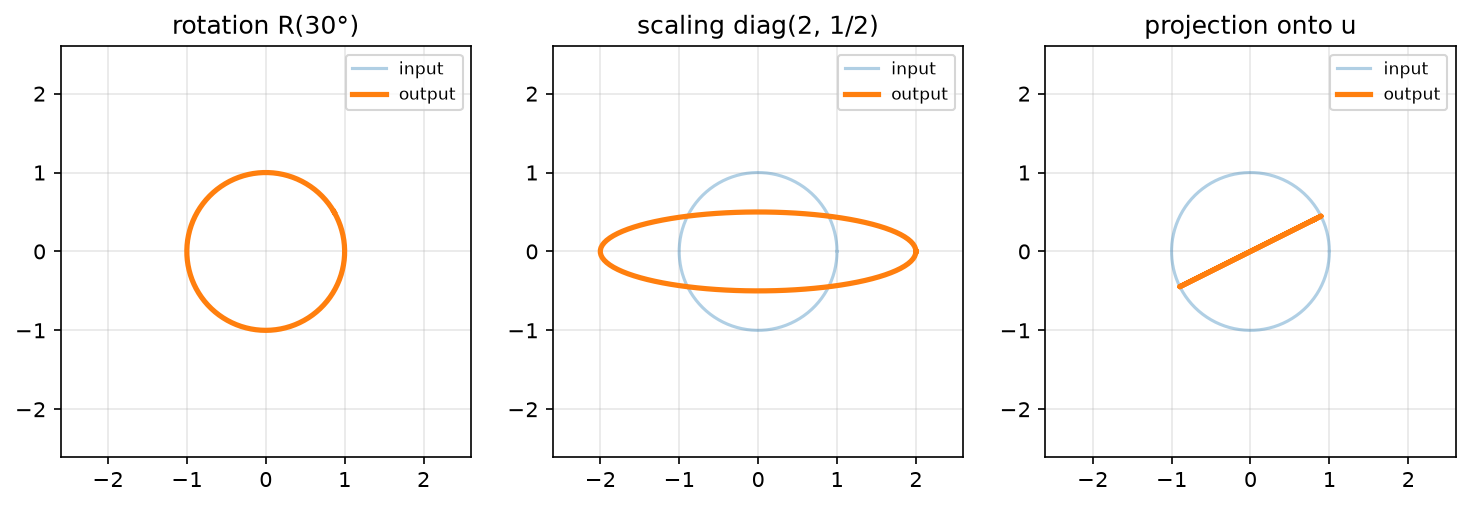
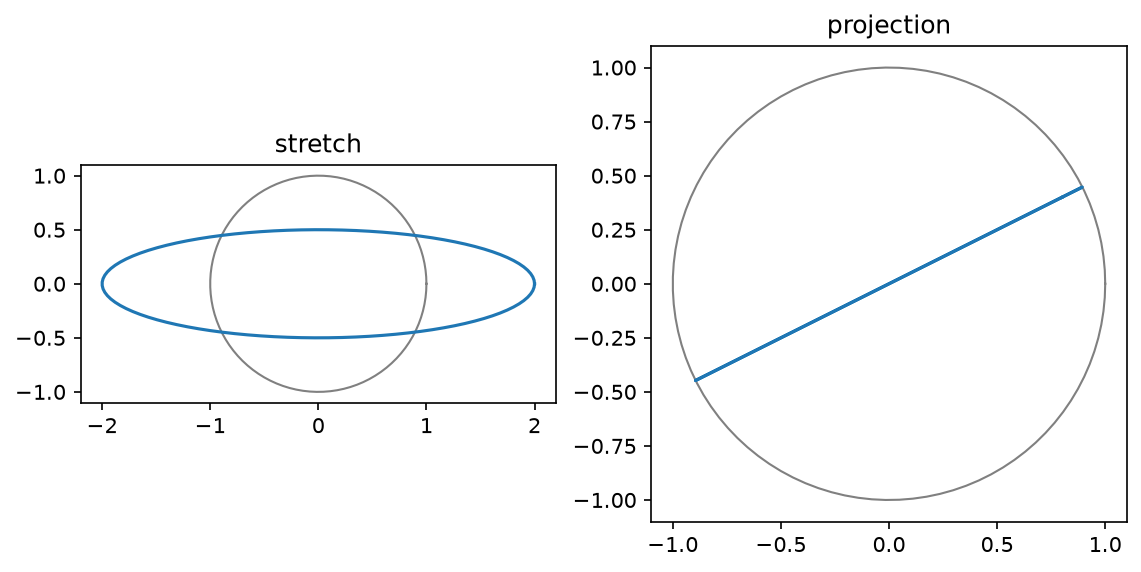
figures: 2-panel geometric effects (ch2), price-vs-sqft canonical from ch03 notebook, K eigenvectors (ch4)

diff --git a/chapter_drafts/clae-chapter-02/2-matrices-and-linear-transformations.md b/chapter_drafts/clae-chapter-02/2-matrices-and-linear-transformations.md
@@ -14,7 +14,7 @@
      Companion notebook: clae-code/ch02/ch02.ipynb NEEDS REGENERATION
      (rotation + 2.6 cells out, composition cell in, geometric_effects
      goes 2-panel).
-     Words: 5231 prose / 5991 total (auto: tools/wordcount.py)-->
+     Words: 5231 prose / 5994 total (auto: tools/wordcount.py)-->
 
 # Chapter 2: Matrices and Linear Transformations
 

diff --git a/chapter_drafts/clae-chapter-03/3-solving-linear-systems.md b/chapter_drafts/clae-chapter-03/3-solving-linear-systems.md
@@ -12,7 +12,7 @@
      Companion notebook: clae-code/ch03/ch03.ipynb TO BE CREATED
      (LU verify, solve residual, two-house exact solve, lstsq, miss
      table, fig_price_vs_sqft).
-     Words: 3031 prose / 3486 total (auto: tools/wordcount.py)-->
+     Words: 3035 prose / 3493 total (auto: tools/wordcount.py)-->
 
 # Chapter 3: Solving Linear Systems
 